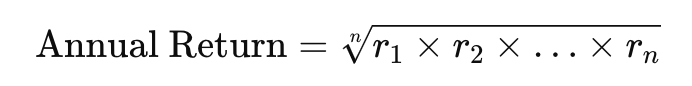
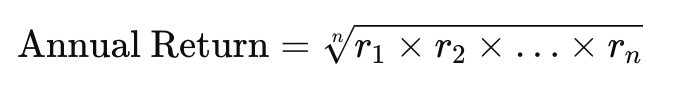
Proofreading the ETF_compare

Changed region(s): [[0.0312, 0.2791, 0.9659, 0.7442]]

diff --git a/_posts/2024-04-15-ETF-compare.md b/_posts/2024-04-15-ETF-compare.md
@@ -1,7 +1,7 @@
 ---
 layout: posts_wide
 date:   2024-04-15
-title:  "Superior ETF performance comparison"
+title:  "Another look at ETF performance"
 permalink:  /compare_etf_performance/
 categories: 
 - Data
@@ -9,39 +9,41 @@ tags:
 - Data
 ---
 <br><br>
-If you are an ETF investor like myself, you've probably searched for the performance of your favorite ETF before making a purchase. It's common to base investment decisions on the published annual rate of return—for example, QQQ at 9.44% per annum. Hopefully, you also considered the fund's risk, often expressed in terms of beta or volatility."
+If you are an ETF investor like myself, you probably inquiried about the performance of your favorite ETF before making a purchase. It is likely that your investment decision was to some extent influenced by the published rate of return — for example, QQQ at 9.44% per annum. Hopefully, besides the return, you also considered the fund's risk often expressed in terms of beta or volatility.
 
-But what do these number tell us? In this post we will focus on the rate of return.
+But what does the rate of return tell us? In particular, what do we mean when we say X% per annum?
 
-Annualized rate of return is a geometric mean of annual returns, where *r* is the ETFs increase in value within a particular year *n*.
+Annualized rate of return is a geometric mean over the individual annual returns, where the annual return ***r<sub>n</sub>*** is just a percentage change in ETF value within a particular year ***n***:
 
 <img src= "/assets/images/2024-04-15-ETF-compare/annual_return.png"  width="300"/>
 
-Annualized rate of return can also be expressed as the n-th root of the ETFs value increase accross the whole holding period. 
+Annualized rate of return can also be expressed as the n-th root of the ETFs value increase over the holding period of ***n*** years: 
 
-<img src= "/assets/images/2024-04-15-ETF-compare/annual_return_2.png" width="200"/>
+<img src= "/assets/images/2024-04-15-ETF-compare/annual_return_2.png" width="225"/>
 
 <br>
-This rate of return is based on the assumption that an ETF is bought on a specific date (usually January 1st) and sold on the exact same date several years later. This scenario is quite unrealistic, given that an investor can buy or sell assets on any trading day within the year. With this in mind, we will demonstrate how the specific dates of purchase and sale can significantly influence the ETF's return rate. Let's examine the performance of a very popular ETF - QQQ. The blue line represents a five-year holding period from January 1, 2018, to January 1, 2023, while the red line shows a five-year period from June 1, 2018, to June 1, 2023."
-
+Such rate of return is based on the assumption that an ETF is bought on a specific date (usually January 1st) and sold on the exact same date several years later. This scenario is quite unrealistic, given that an investor can buy or sell assets on any trading day within the year. With this in mind, I will demonstrate how the specific dates of purchase and sale can significantly influence the ETF's annualized return rate. Let's examine the performance of a very popular ETF - QQQ. The blue line represents a five-year holding period from January 1, 2018 to January 1, 2023, while the red line shows a five-year period from June 1, 2018, to June 1, 2023."
+<br><br>
 <img src= "/assets/images/2024-04-15-ETF-compare/qqq.png" width="300" class="center_70"/>
 
-The blue and red time frames each span five years, overlapping for four and a half years. Despite this, the annualized rates of return, calculated using the second formula above, are 12.4% and 17.3% . This is a huge difference. Essentially, if you are considering purchasing this ETF based on its annual return over the last five years, your decision could be heavily influenced by the most recent six-month period.
+The blue and red time frames each span five years, overlapping over four and a half years. Despite this, the annualized rates of return, calculated using the second formula above, are 12.4% for the blue time window and 17.3% for the red time window. This is a huge difference. Essentially, if you are considering purchasing this ETF based on its annualized rate of return over the last five years, your decision could be heavily influenced by the most recent six-month period.
 
-In practice, an investor is likely to buy or sell her ETF on any random day of the year, and the holding period may not align perfectly with a full year. Additionally, a typical investor often has limited knowledge about how long they will hold onto their investment—it could range from months to decades, and this is not usually known in advance.
+In practice, an investor is likely to buy or sell her ETF on any given day of the year, and the holding period may not amount to a full n number of years. A typical investor often has limited knowledge about how long they will hold onto their investment - the holding period could range from months to decades, and this is usually not known in advance.
 
-Considering all of the points discussed, I have attempted to develop a more realistic method for assessing ETF performance. This approach ensures that:
+Considering all of the points discussed, I have attempted to develop a more realistic method for estimating ETF performance. This approach ensures that:
 
-The start and end dates of the analysis period are weighted equally with any other data points.
-The investor has no preference for either short-term or long-term holding periods.
+- The start and end dates of the analysis period are weighted equally as other time points.
+- The investor has no preference for either short-term or long-term holding periods.
 
-To implement this, I am collecting a series of returns between data points that are 12 months apart. These returns are calculated as a simple fraction, dividing the ETF price at time *t+12* by the ETF price at time *t*. The median of these returns represents the median one-year return for our ETF. This procedure is similarly applied to other holding periods, using intervals of 24 months, 60 months, and so forth.
+To implement this, I am calculating n series of returns between data points that are ***m = n x 12*** months apart, where ***n*** is the holding period expressed as the number of years (1, 2, 5, 7 and 10 years) - so 5 time series in total. Each series of returns is calculated as a rolling window, dividing the ETF price at time ***t+m*** by the ETF price at time ***t***. The median of this series of returns represents the median n-year return for our ETF. For example, to obtain the median return over a 1 year holding period we would calculate a series of 12-month returns over a large window of consecutive months and find the median value. For a 5 year holding period, we would do the same but with 60-month returns.
 
-Returning to our QQQ example, using this method, the blue and red time frames yield median annual returns of 18.4% and 18.7%, respectively. These returns are much more stable (compared to the previous 12.4% and 17.3%), and less dependent on the specific time frame chosen. This approach provides a clearer and more reliable comparison of the ETF's performance against other competing ETFs.
+The reader can see that the 1-year median return calculated in such a way would be analogous to the annualized rate of return we described earlier.
 
-One important aspect to remember is that the one-year return rate is not meant to be compounded.  For instance, the five-year return should not be calculated as (1,184%)<sup>5</sup>-1. Rather, to determine the five-year (median) return, we would apply the same procedure using a 60-month interval.
+Returning to our QQQ example, using this method, the blue and red time frames yield median annual returns of 18.4% and 18.7%, respectively. These returns are now much more stable (compared to the previous 12.4% and 17.3%), and less dependent on the specific time frame chosen. This approach provides a clearer and more reliable comparison of the ETF's performance against other competing ETFs.
 
-fter defining the implementation, the next step is to apply this procedure across a broad range of ETFs and various holding periods. The goal is to conduct a thorough comparison and obtain a clear indication of which ETFs have shown the best historical performance. To achieve this, I processed a pool of approximately 21,000 ETF tickers available on the [internet](https://github.com/MichaelDz6/Yahoo_Finance_ETFs_Web_Scraper/blob/master/ETFs_Tickers.csv), from which around 5,500 were still active and had adequate and current data on Yahoo Finance.
+One important aspect to remember is that the one-year return rate is not meant to be compounded.  For instance, the five-year return should not be calculated as (1.184%)<sup>5</sup>-1. Rather, to determine the five-year (median) return, we would apply the same procedure using a n=5 interval.
+
+After defining the implementation, the next step is to apply this procedure across a broad range of ETFs and various holding periods. The goal is to conduct a thorough comparison and obtain a clear indication of which ETFs have shown the best historical performance. To achieve this, I processed a pool of approximately 21,000 ETF tickers available on the [internet](https://github.com/MichaelDz6/Yahoo_Finance_ETFs_Web_Scraper/blob/master/ETFs_Tickers.csv), from which around 5,500 were still active and had adequate and current data on Yahoo Finance.
 
 Below is a series of ordered boxplots that summarize the performance of ETFs across holding periods of 1, 2, 5, 7, and 10 years. The plots on the left display the highest performance in terms of median return. The legend includes a description for each ETF, as available from the Yahoo Finance API.
 
